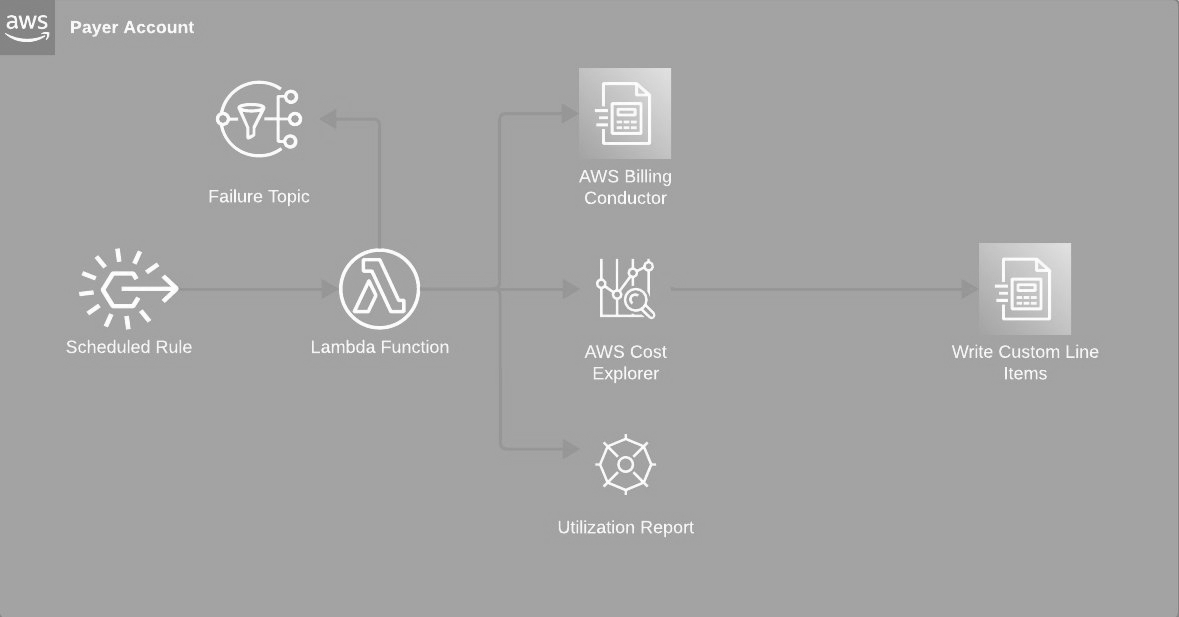
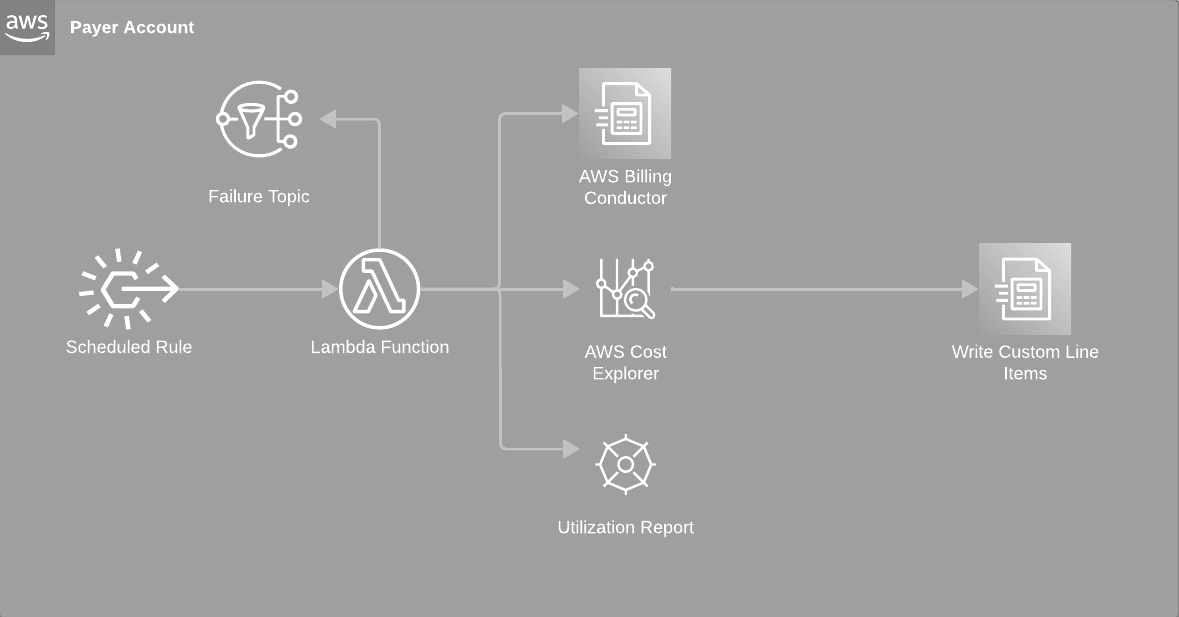
Converting all images other than Google Maps to greyscale

diff --git a/scottie-is-xxx/src/css/custom.css b/scottie-is-xxx/src/css/custom.css
@@ -27,7 +27,6 @@
 }
 
 
-/* For readability concerns, you should choose a lighter palette in dark mode. */
 [data-theme='dark'] {
   --ifm-color-primary: #a7c080;
   --ifm-color-primary-dark: #83c092;
@@ -51,12 +50,14 @@
   font-style: normal;
 }
 
-/* Apply JetBrains Mono globally */
+img:not([src*="maps.googleapis.com"]):not([src*="maps.gstatic.com"]) {
+  filter: grayscale(100%);
+}
+
 * {
   font-family: 'JetBrains Mono', monospace;
 }
 
-/* Maximize content width */
 .container {
   max-width: 100%;
   padding-left: 2rem;
@@ -67,13 +68,11 @@
   max-width: 100%;
 }
 
-/* Adjust blog post container width */
 article {
   max-width: 900px;
   margin: 0 auto;
 }
 
-/* Widen the doc content area */
 .theme-doc-markdown {
   max-width: 900px;
 }
